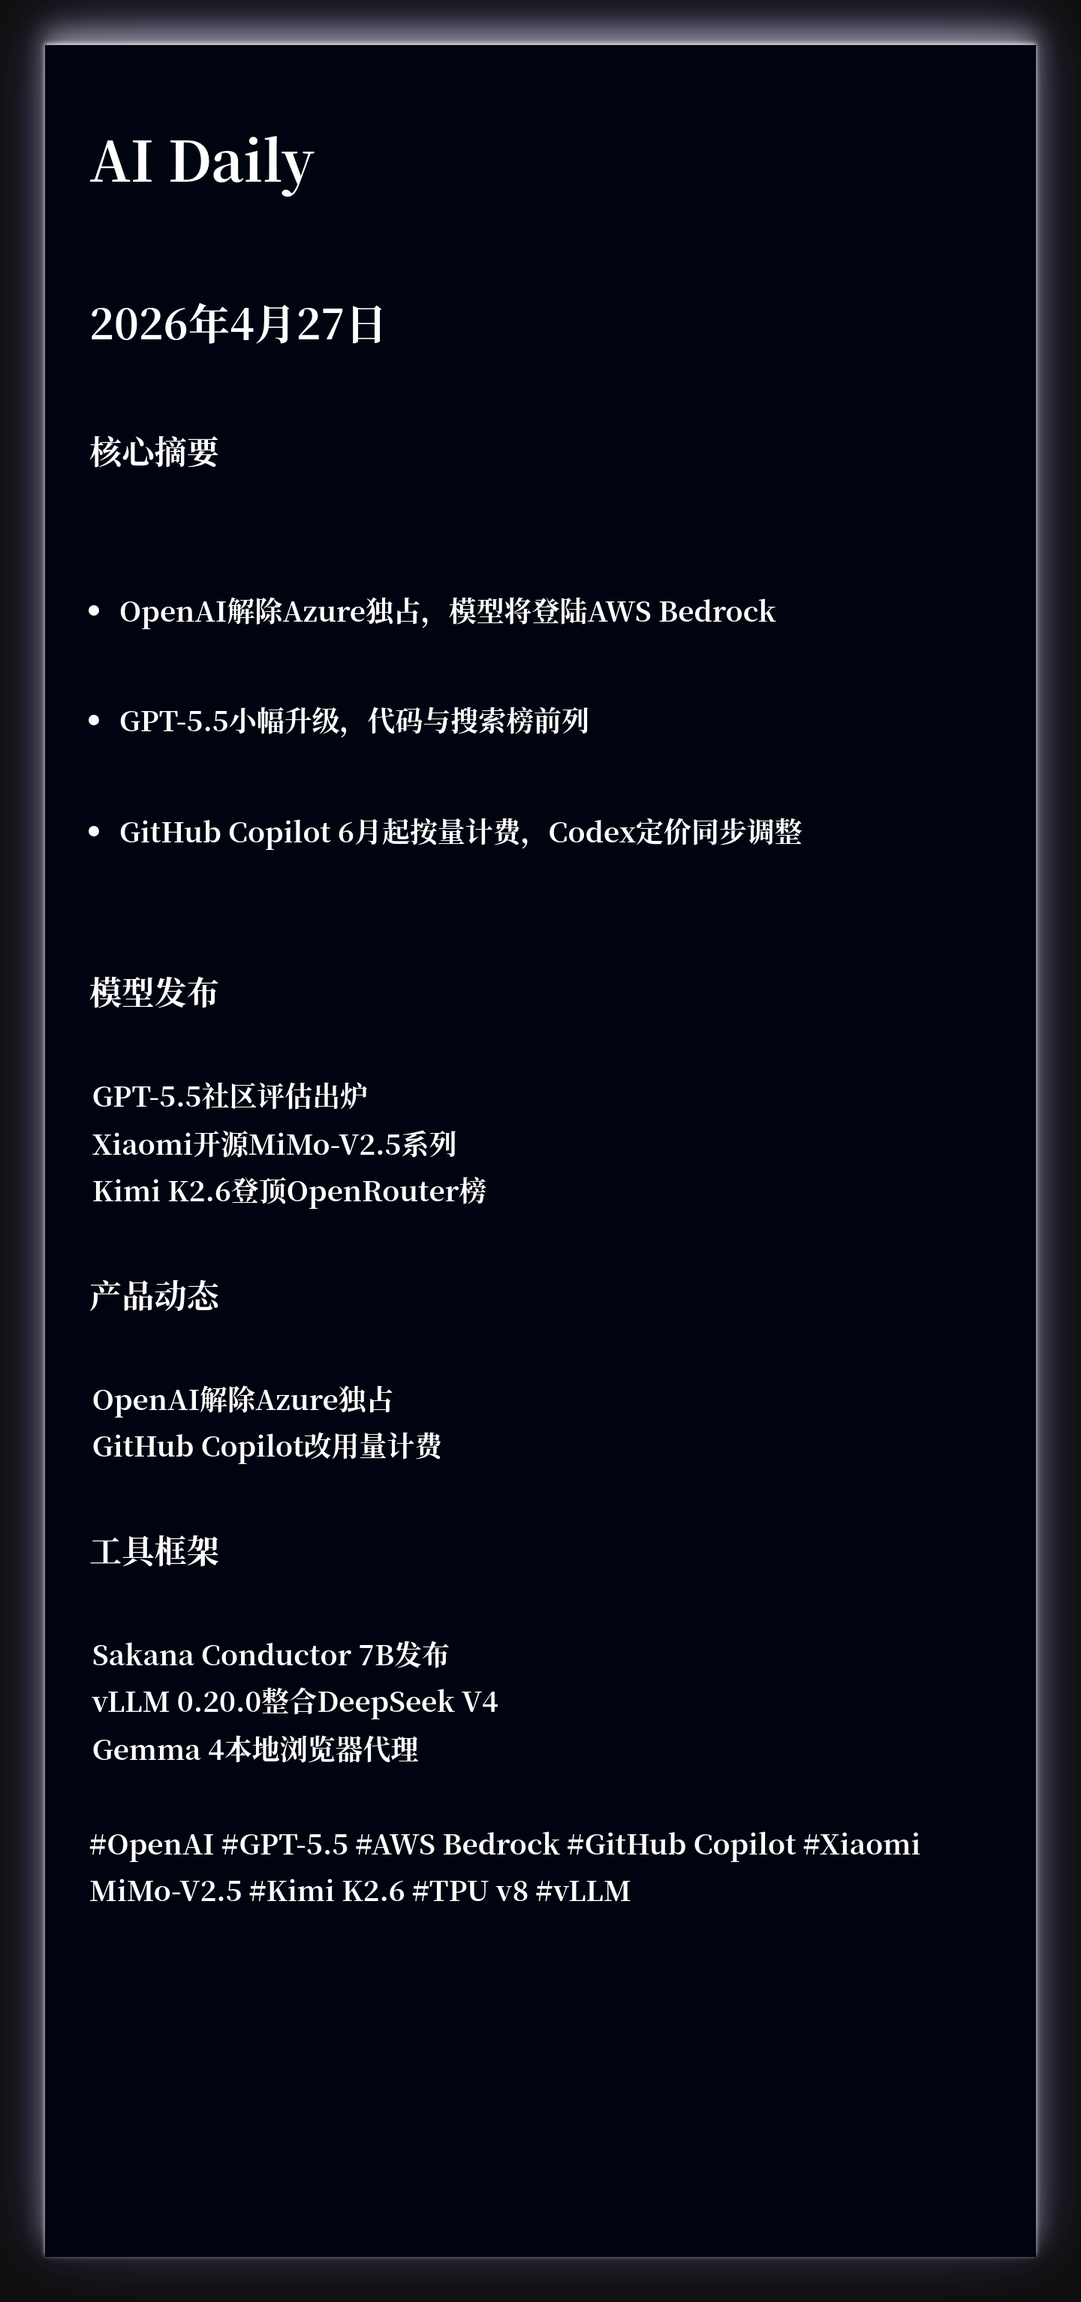
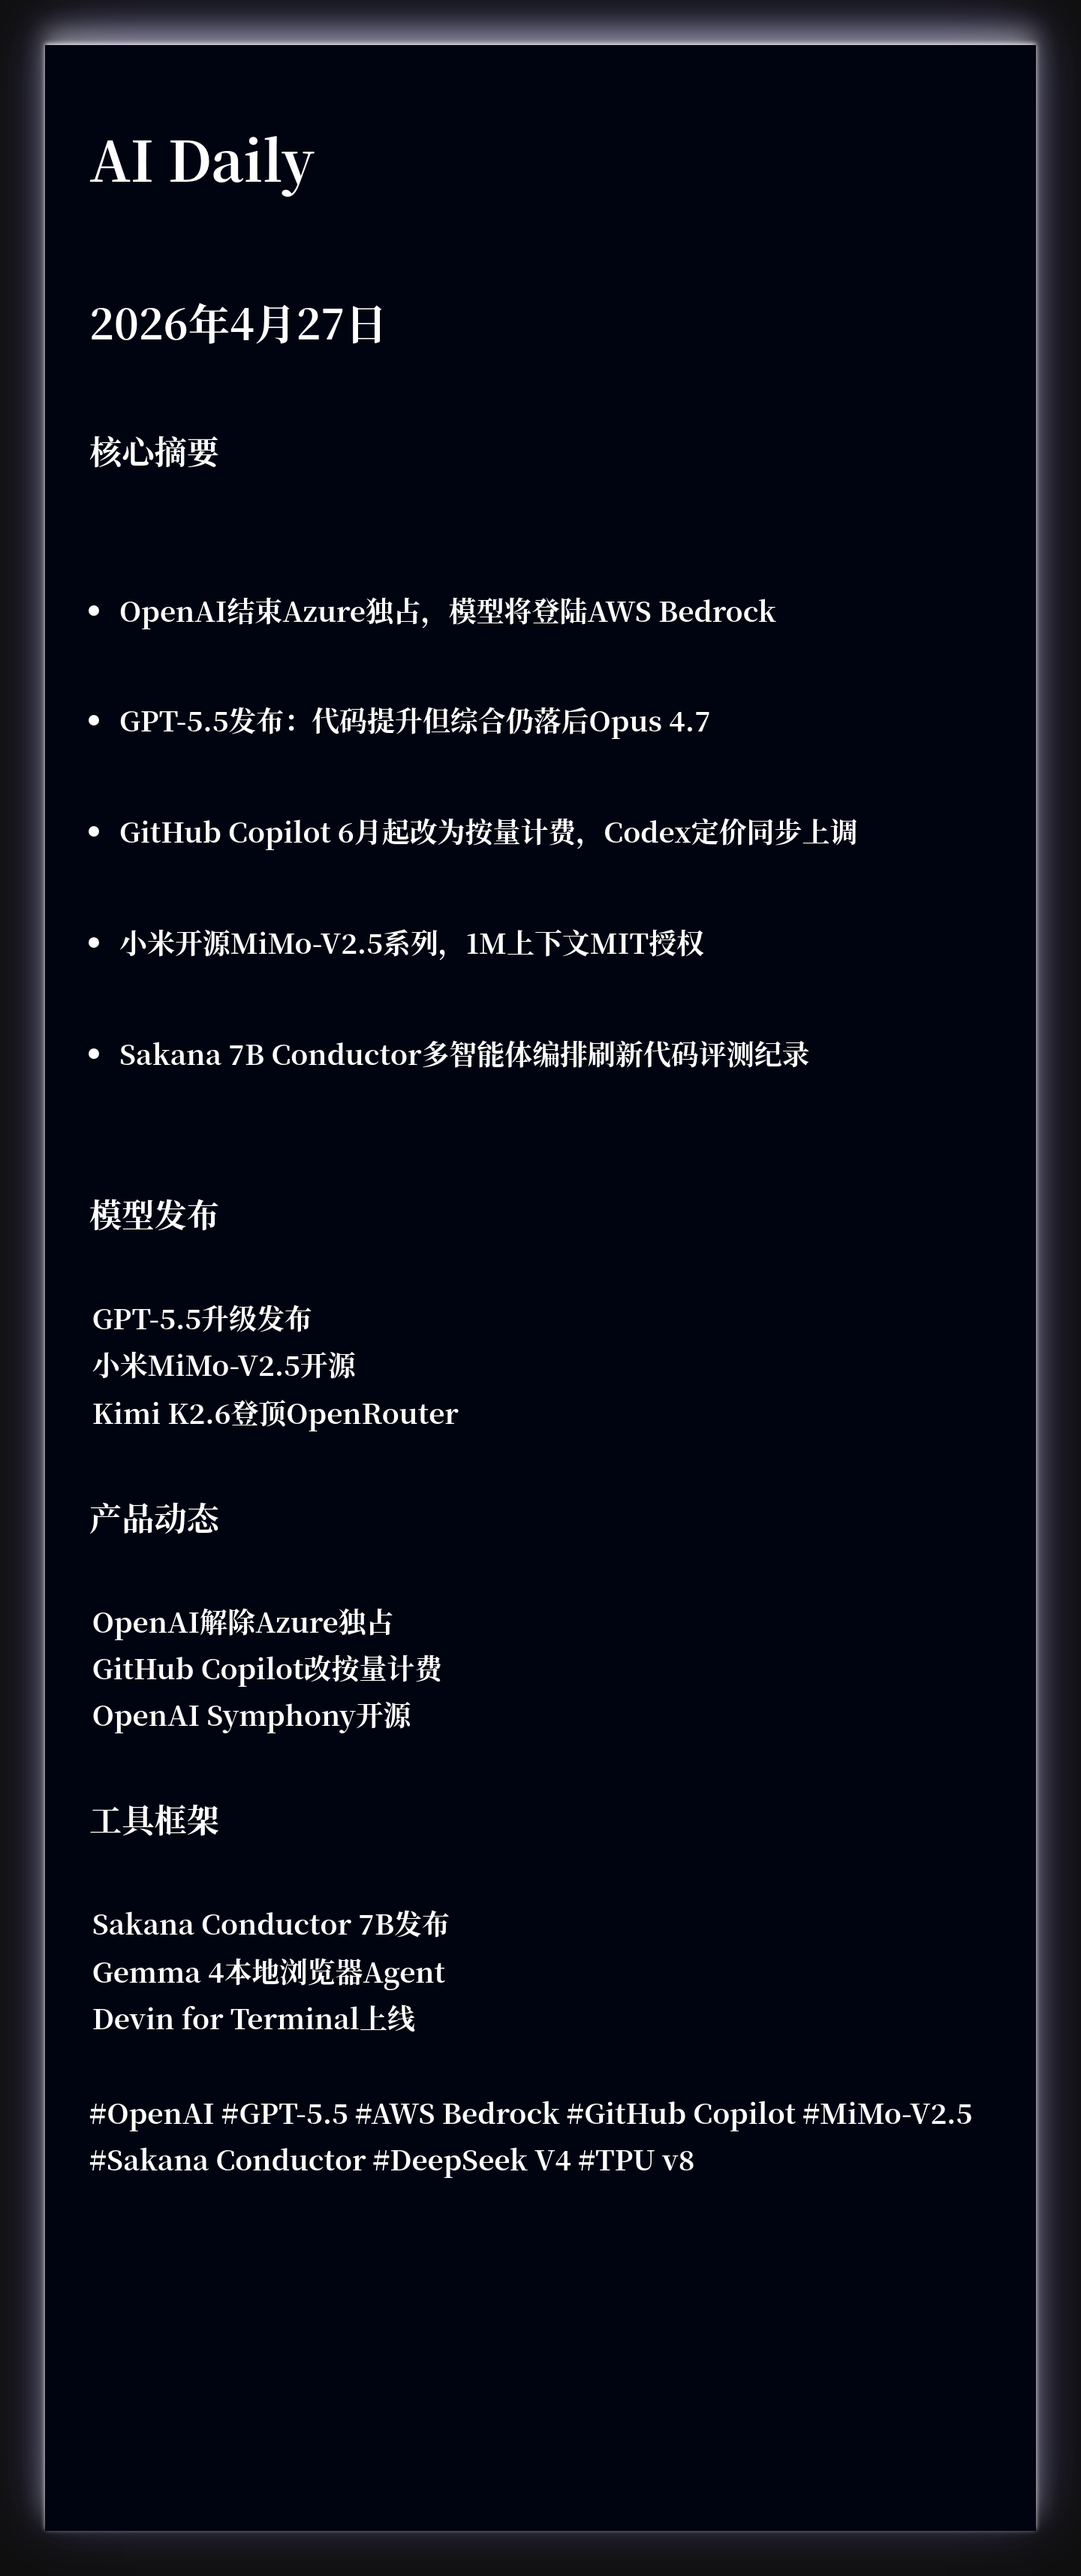
🤖 Auto update AI Daily - {{ date }} c12df99939e49153058be8885637e517e0945aa2

diff --git a/2026-04-27.html b/2026-04-27.html
@@ -5,7 +5,7 @@
     <meta name="viewport" content="width=device-width, initial-scale=1.0">
     <title>AI Daily · 2026年4月27日 星期一</title>
     <meta name="description" content="每日 AI 前沿资讯，智能分类，快速掌握核心动态">
-    <meta name="keywords" content="OpenAI, GPT-5.5, AWS Bedrock, GitHub Copilot, Xiaomi MiMo-V2.5, Kimi K2.6, TPU v8, vLLM, Symphony, Conductor, AI, 人工智能, 机器学习, 深度学习, 资讯, 日报">
+    <meta name="keywords" content="OpenAI, GPT-5.5, AWS Bedrock, GitHub Copilot, MiMo-V2.5, Sakana Conductor, DeepSeek V4, TPU v8, 多智能体, 按量计费, AI, 人工智能, 机器学习, 深度学习, 资讯, 日报">
     <link rel="stylesheet" href="css/styles.css">
 </head>
 <body data-theme="blue">
@@ -24,9 +24,11 @@
             <section class="summary-card">
                 <h2 class="section-title">📌 今日核心摘要</h2>
                 <ul class="summary-list">
-                <li class="summary-item">OpenAI解除Azure独占，模型将登陆AWS Bedrock</li>
-                <li class="summary-item">GPT-5.5小幅升级，代码与搜索榜前列</li>
-                <li class="summary-item">GitHub Copilot 6月起按量计费，Codex定价同步调整</li>
+                <li class="summary-item">OpenAI结束Azure独占，模型将登陆AWS Bedrock</li>
+                <li class="summary-item">GPT-5.5发布：代码提升但综合仍落后Opus 4.7</li>
+                <li class="summary-item">GitHub Copilot 6月起改为按量计费，Codex定价同步上调</li>
+                <li class="summary-item">小米开源MiMo-V2.5系列，1M上下文MIT授权</li>
+                <li class="summary-item">Sakana 7B Conductor多智能体编排刷新代码评测纪录</li>
                 </ul>
             </section>
 
@@ -41,29 +43,29 @@
 
                 <article class="news-card">
                     <div class="news-card-header">
-                        <h3 class="news-title">GPT-5.5社区评估出炉</h3>
+                        <h3 class="news-title">GPT-5.5升级发布</h3>
                         <a href="https://x.com/arena/status/2048794479646388732" class="item-link" target="_blank" rel="noopener">详情</a>
                     </div>
-                    <p class="news-summary">WeirdML 67.1%小幅提升，代码/搜索榜前三，高推理档待测</p>
-                    <div class="item-tags"><span class="tag">#OpenAI</span> <span class="tag">#GPT-5.5</span></div>
+                    <p class="news-summary">中等推理档位上线，代码Arena第9，Math第3，仍逊Opus 4.7</p>
+                    <div class="item-tags"><span class="tag">#OpenAI</span> <span class="tag">#GPT-5.5</span> <span class="tag">#LMSYS</span></div>
                 </article>
 
                 <article class="news-card">
                     <div class="news-card-header">
-                        <h3 class="news-title">Xiaomi开源MiMo-V2.5系列</h3>
+                        <h3 class="news-title">小米MiMo-V2.5开源</h3>
                         <a href="https://x.com/XiaomiMiMo/status/2048821516079661561" class="item-link" target="_blank" rel="noopener">详情</a>
                     </div>
-                    <p class="news-summary">MIT授权，1M上下文，Pro版1T/42B参数，vLLM当日适配</p>
-                    <div class="item-tags"><span class="tag">#Xiaomi</span> <span class="tag">#MiMo-V2.5</span></div>
+                    <p class="news-summary">1M上下文、MIT协议，Pro版42B激活，支持vLLM/SGLang</p>
+                    <div class="item-tags"><span class="tag">#小米</span> <span class="tag">#MiMo-V2.5</span> <span class="tag">#开源</span></div>
                 </article>
 
                 <article class="news-card">
                     <div class="news-card-header">
-                        <h3 class="news-title">Kimi K2.6登顶OpenRouter榜</h3>
+                        <h3 class="news-title">Kimi K2.6登顶OpenRouter</h3>
                         <a href="https://x.com/Kimi_Moonshot/status/2048693682329776223" class="item-link" target="_blank" rel="noopener">详情</a>
                     </div>
-                    <p class="news-summary">300子代理4000步长任务能力，代码修复表现优于DeepSeek V4</p>
-                    <div class="item-tags"><span class="tag">#Kimi</span> <span class="tag">#Moonshot</span></div>
+                    <p class="news-summary">300并发子智能体、4000步长程任务，编码表现超DeepSeek V4</p>
+                    <div class="item-tags"><span class="tag">#Kimi</span> <span class="tag">#Moonshot</span> <span class="tag">#长上下文</span></div>
                 </article>
 
                 </div>
@@ -73,7 +75,7 @@
                 <div class="category-header">
                     <span class="category-icon">💼</span>
                     <h2 class="category-title">产品动态</h2>
-                    <span class="category-count">2</span>
+                    <span class="category-count">3</span>
                 </div>
                 <div class="news-grid">
 
@@ -82,17 +84,26 @@
                         <h3 class="news-title">OpenAI解除Azure独占</h3>
                         <a href="https://x.com/sama/status/2048755148361707946" class="item-link" target="_blank" rel="noopener">详情</a>
                     </div>
-                    <p class="news-summary">与微软续约至2032，模型可上架所有云，AWS Bedrock数周内上线</p>
-                    <div class="item-tags"><span class="tag">#OpenAI</span> <span class="tag">#Microsoft</span> <span class="tag">#AWS</span></div>
+                    <p class="news-summary">模型可上架所有云，微软授权转非独占，AGI条款实质废除</p>
+                    <div class="item-tags"><span class="tag">#OpenAI</span> <span class="tag">#Azure</span> <span class="tag">#AWS</span></div>
                 </article>
 
                 <article class="news-card">
                     <div class="news-card-header">
-                        <h3 class="news-title">GitHub Copilot改用量计费</h3>
+                        <h3 class="news-title">GitHub Copilot改按量计费</h3>
                         <a href="https://x.com/github/status/2048794729274278258" class="item-link" target="_blank" rel="noopener">详情</a>
                     </div>
-                    <p class="news-summary">6月1日起按token收费，Codex 5.5 fast 2.5倍系数，同步开源Symphony</p>
-                    <div class="item-tags"><span class="tag">#GitHub</span> <span class="tag">#Copilot</span> <span class="tag">#Codex</span></div>
+                    <p class="news-summary">6月1日起弃固定订阅，Agent高消耗模式推动成本透明化</p>
+                    <div class="item-tags"><span class="tag">#GitHub</span> <span class="tag">#Copilot</span> <span class="tag">#定价</span></div>
+                </article>
+
+                <article class="news-card">
+                    <div class="news-card-header">
+                        <h3 class="news-title">OpenAI Symphony开源</h3>
+                        <a href="https://x.com/OpenAIDevs/status/2048825010371039648" class="item-link" target="_blank" rel="noopener">详情</a>
+                    </div>
+                    <p class="news-summary">连接Issue追踪与Codex Agent，自动PR并等待人工评审</p>
+                    <div class="item-tags"><span class="tag">#OpenAI</span> <span class="tag">#Symphony</span> <span class="tag">#Codex</span></div>
                 </article>
 
                 </div>
@@ -111,26 +122,26 @@
                         <h3 class="news-title">Sakana Conductor 7B发布</h3>
                         <a href="https://x.com/SakanaAILabs/status/2048777689763639741" class="item-link" target="_blank" rel="noopener">详情</a>
                     </div>
-                    <p class="news-summary">RL训练多Agent调度器，LiveCodeBench 83.9%，GPQA-Diamond 87.5%</p>
-                    <div class="item-tags"><span class="tag">#Sakana</span> <span class="tag">#Conductor</span></div>
+                    <p class="news-summary">RL训练多智能体编排器，LiveCodeBench 83.9%，超越单模型</p>
+                    <div class="item-tags"><span class="tag">#Sakana</span> <span class="tag">#Conductor</span> <span class="tag">#多智能体</span></div>
                 </article>
 
                 <article class="news-card">
                     <div class="news-card-header">
-                        <h3 class="news-title">vLLM 0.20.0整合DeepSeek V4</h3>
-                        <a href="https://x.com/vllm_project/status/2048918629144805619" class="item-link" target="_blank" rel="noopener">详情</a>
-                    </div>
-                    <p class="news-summary">支持FP4/FP8专家分离、TurboQuant 2-bit KV，Blackwell MegaMoE路径</p>
-                    <div class="item-tags"><span class="tag">#vLLM</span> <span class="tag">#DeepSeek</span></div>
-                </article>
-
-                <article class="news-card">
-                    <div class="news-card-header">
-                        <h3 class="news-title">Gemma 4本地浏览器代理</h3>
+                        <h3 class="news-title">Gemma 4本地浏览器Agent</h3>
                         <a href="https://x.com/googlegemma/status/2048805789788413984" class="item-link" target="_blank" rel="noopener">详情</a>
                     </div>
-                    <p class="news-summary">WebGPU驱动，原生工具调用，可离线管理标签与摘要</p>
-                    <div class="item-tags"><span class="tag">#Google</span> <span class="tag">#Gemma</span></div>
+                    <p class="news-summary">WebGPU+原生工具调用，实现完全本地页面摘要与标签管理</p>
+                    <div class="item-tags"><span class="tag">#Gemma 4</span> <span class="tag">#WebGPU</span> <span class="tag">#本地Agent</span></div>
+                </article>
+
+                <article class="news-card">
+                    <div class="news-card-header">
+                        <h3 class="news-title">Devin for Terminal上线</h3>
+                        <a href="https://x.com/cognition/status/2048821234281181302" class="item-link" target="_blank" rel="noopener">详情</a>
+                    </div>
+                    <p class="news-summary">本地Shell Agent可无缝切换云端，支持长任务断点续跑</p>
+                    <div class="item-tags"><span class="tag">#Cognition</span> <span class="tag">#Devin</span> <span class="tag">#本地优先</span></div>
                 </article>
 
                 </div>
@@ -138,7 +149,7 @@
 
 
         <footer class="keywords-footer">
-            <p>#关键词: OpenAI | GPT-5.5 | AWS Bedrock | GitHub Copilot | Xiaomi MiMo-V2.5 | Kimi K2.6 | TPU v8 | vLLM | Symphony | Conductor</p>
+            <p>#关键词: OpenAI | GPT-5.5 | AWS Bedrock | GitHub Copilot | MiMo-V2.5 | Sakana Conductor | DeepSeek V4 | TPU v8 | 多智能体 | 按量计费</p>
         </footer>
 
         </main>

diff --git a/xiaohongshu/xhs-2026-04-27.html b/xiaohongshu/xhs-2026-04-27.html
@@ -318,7 +318,7 @@
                 <div class="title-section">
                     <div class="main-title">GPT · OpenAI</div>
                     <div class="divider"></div>
-                    <div class="subtitle">OpenAI解除Azure独占，模型将登陆AWS ...</div>
+                    <div class="subtitle">OpenAI结束Azure独占，模型将登陆AWS ...</div>
 
                     <!-- 亮点 -->
                     <div class="highlights">
@@ -329,7 +329,7 @@
                 <!-- 底部区域 -->
                 <div class="bottom-section">
                     <div class="keywords">
-                        <span class="keyword-tag">#OpenAI</span><span class="keyword-tag">#GPT-5.5</span><span class="keyword-tag">#AWS Bedrock</span><span class="keyword-tag">#GitHub Copilot</span><span class="keyword-tag">#Xiaomi MiMo-V2.5</span>
+                        <span class="keyword-tag">#OpenAI</span><span class="keyword-tag">#GPT-5.5</span><span class="keyword-tag">#AWS Bedrock</span><span class="keyword-tag">#GitHub Copilot</span><span class="keyword-tag">#MiMo-V2.5</span>
                     </div>
                     <div class="account-info">
                         <div class="account-name">极客杰尼</div>

diff --git a/index.html b/index.html
@@ -29,7 +29,7 @@
                         <span class="entry-date">2026年4月27日 星期一</span>
                         <span class="entry-arrow">→</span>
                     </div>
-                    <p class="entry-summary">OpenAI解除Azure独占，模型将登陆AWS Bedrock</p>
+                    <p class="entry-summary">OpenAI结束Azure独占，模型将登陆AWS Bedrock</p>
                 </a>
             </article>
 
